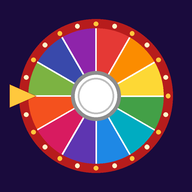
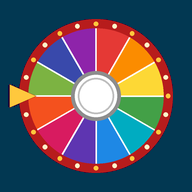
Add files via upload

diff --git a/index.html b/index.html
@@ -5,7 +5,7 @@
 <meta name="viewport" content="width=device-width, initial-scale=1, viewport-fit=cover">
 <title>PrestaYa</title>
 <meta name="description" content="Gira la ruleta y gana boletas extra">
-<meta name="theme-color" content="#7f0d0d">
+<meta name="theme-color" content="#023852">
 <meta name="mobile-web-app-capable" content="yes">
 <meta name="apple-mobile-web-app-capable" content="yes">
 <meta name="apple-mobile-web-app-status-bar-style" content="black-translucent">
@@ -16,7 +16,7 @@
 /* ============================================================
    ICONO SVG + MANIFEST EMBEBIDO (Data URI)
    ============================================================ */
-const APP_VERSION = '1.4';
+const APP_VERSION = '1.5';
 const WHEEL_COLORS = ['#E53935','#FB8C00','#FDD835','#43A047','#00ACC1','#1E88E5','#5E35B1','#D81B60','#F4511E','#7CB342','#3949AB','#8E24AA'];
 
 function makeIconSVG(){
@@ -28,7 +28,7 @@ function makeIconSVG(){
     const x1 = cx + r * Math.cos(a1), y1 = cx + r * Math.sin(a1);
     paths += `<path d="M${cx},${cx} L${x0.toFixed(1)},${y0.toFixed(1)} A${r},${r} 0 0 1 ${x1.toFixed(1)},${y1.toFixed(1)} Z" fill="${WHEEL_COLORS[i]}" stroke="#fff" stroke-width="3"/>`;
   }
-  return `<svg xmlns="http://www.w3.org/2000/svg" viewBox="0 0 512 512"><rect width="512" height="512" rx="96" fill="#1a0b3d"/><circle cx="256" cy="256" r="240" fill="#B71C1C"/>${paths}<circle cx="256" cy="256" r="58" fill="#9e9e9e"/><circle cx="256" cy="256" r="48" fill="#fff"/><circle cx="256" cy="256" r="38" fill="#fff" stroke="#bdbdbd" stroke-width="4"/></svg>`;
+  return `<svg xmlns="http://www.w3.org/2000/svg" viewBox="0 0 512 512"><rect width="512" height="512" rx="96" fill="#023852"/><circle cx="256" cy="256" r="240" fill="#B71C1C"/>${paths}<circle cx="256" cy="256" r="58" fill="#9e9e9e"/><circle cx="256" cy="256" r="48" fill="#fff"/><circle cx="256" cy="256" r="38" fill="#fff" stroke="#bdbdbd" stroke-width="4"/></svg>`;
 }
 
 (function setupManifest(){
@@ -49,8 +49,8 @@ function makeIconSVG(){
     scope: base,
     display: 'standalone',
     orientation: 'portrait',
-    background_color: '#1a0b3d',
-    theme_color: '#7f0d0d',
+    background_color: '#023852',
+    theme_color: '#023852',
     lang: 'es',
     icons: [
       { src: base + 'icon-192.png', sizes: '192x192', type: 'image/png', purpose: 'any maskable' },
@@ -72,16 +72,19 @@ function makeIconSVG(){
 
 <style>
   :root{
-    --crimson:#b71c1c; --crimson-dark:#7f0d0d; --gold:#ffc83d;
-    --bg1:#2a0f5c; --bg2:#12052e;
+    /* Paleta PrestaYa */
+    --navy:#023852; --teal:#079fa0; --mint:#9fd8c5; --yellow:#fac005; --red:#dc2e2f;
+    --crimson:var(--red); --gold:var(--yellow);
+    --bg1:#045278; --bg2:#011f2e;
   }
   *{ -webkit-tap-highlight-color: transparent; }
+  .hidden{ display:none !important; }   /* respaldo si el CDN de Tailwind no carga */
   html,body{ background:var(--bg2); }
   body{
     font-family:'Baloo 2', system-ui, -apple-system, 'Segoe UI', Roboto, sans-serif;
     min-height:100vh; min-height:100dvh;
     background:
-      radial-gradient(ellipse at 50% 35%, rgba(255,200,61,.18), transparent 55%),
+      radial-gradient(ellipse at 50% 35%, rgba(7,159,160,.30), transparent 60%),
       repeating-conic-gradient(from 0deg at 50% 38%, rgba(255,255,255,.035) 0 10deg, transparent 10deg 20deg),
       linear-gradient(180deg, var(--bg1), var(--bg2));
     background-attachment: fixed;
@@ -89,14 +92,14 @@ function makeIconSVG(){
   }
   .title{
     font-weight:800; letter-spacing:.5px; line-height:1;
-    background:linear-gradient(180deg,#fff6c9,#ffc83d 55%,#ff9d00);
+    background:linear-gradient(180deg,#fff2b8,#fac005 60%,#e0a800);
     -webkit-background-clip:text; background-clip:text; color:transparent;
     filter:drop-shadow(0 2px 0 rgba(0,0,0,.35));
   }
-  .chip{ background:rgba(255,255,255,.1); border:1px solid rgba(255,255,255,.18); border-radius:999px; }
+  .chip{ background:rgba(7,159,160,.25); border:1px solid rgba(159,216,197,.55); border-radius:999px; }
   .icon-btn{
     width:42px; height:42px; border-radius:14px; display:grid; place-items:center;
-    background:rgba(255,255,255,.1); border:1px solid rgba(255,255,255,.2);
+    background:rgba(7,159,160,.22); border:1px solid rgba(159,216,197,.45);
   }
   .icon-btn:active{ transform:scale(.94); }
 
@@ -104,7 +107,7 @@ function makeIconSVG(){
   #wheelWrap{ width:min(84vw, 400px); aspect-ratio:1/1; position:relative; }
   #wheelGlow{
     position:absolute; inset:-6%; border-radius:50%;
-    background:radial-gradient(circle, rgba(255,200,61,.35), transparent 65%);
+    background:radial-gradient(circle, rgba(159,216,197,.35), transparent 65%);
     filter:blur(6px); pointer-events:none;
   }
   #wheel{
@@ -127,7 +130,7 @@ function makeIconSVG(){
     background:radial-gradient(circle at 35% 30%, #ffffff, #f1f1f1 60%, #d9d9d9);
     border:2px solid #9e9e9e;
     box-shadow:0 0 0 3px #fff, 0 0 0 6px #8a8a8a, 0 0 0 7px #c7c7c7, 0 5px 12px rgba(0,0,0,.45);
-    color:var(--crimson); font-weight:800; font-size:clamp(10px,2.9vw,14px); letter-spacing:.3px;
+    color:#b71c1c; font-weight:800; font-size:clamp(10px,2.9vw,14px); letter-spacing:.3px;
     transition:transform .15s;
   }
   #hubBtn:not(:disabled):active{ transform:translate(-50%,-50%) scale(.93); }
@@ -136,11 +139,11 @@ function makeIconSVG(){
   .spin-btn{
     font-weight:800; font-size:1.25rem; letter-spacing:.5px; color:#fff;
     padding:.85rem 2.2rem; border-radius:999px;
-    background:linear-gradient(180deg,#ff5252,#c62828 55%,#8e0000);
-    box-shadow:0 6px 0 #5c0000, 0 12px 24px rgba(0,0,0,.45), inset 0 2px 0 rgba(255,255,255,.35);
+    background:linear-gradient(180deg,#ef5354,#dc2e2f 55%,#a81f20);
+    box-shadow:0 6px 0 #6e1314, 0 12px 24px rgba(0,0,0,.45), inset 0 2px 0 rgba(255,255,255,.35);
     transition:transform .1s, box-shadow .1s, filter .2s;
   }
-  .spin-btn:not(:disabled):active{ transform:translateY(5px); box-shadow:0 1px 0 #5c0000, 0 6px 12px rgba(0,0,0,.4); }
+  .spin-btn:not(:disabled):active{ transform:translateY(5px); box-shadow:0 1px 0 #6e1314, 0 6px 12px rgba(0,0,0,.4); }
   .spin-btn:disabled{ filter:grayscale(.85) brightness(.75); }
   .pulse:not(:disabled){ animation:pulse 1.8s ease-in-out infinite; }
   @keyframes pulse{ 0%,100%{ transform:scale(1) } 50%{ transform:scale(1.05) } }
@@ -148,72 +151,72 @@ function makeIconSVG(){
   /* ---------- Modales ---------- */
   .modal{
     position:fixed; inset:0; z-index:50; display:flex; align-items:center; justify-content:center;
-    padding:20px; background:rgba(8,2,22,.72); backdrop-filter:blur(4px);
+    padding:20px; background:rgba(1,31,46,.75); backdrop-filter:blur(4px);
     opacity:0; pointer-events:none; transition:opacity .25s;
   }
   .modal.open{ opacity:1; pointer-events:auto; }
   .modal-card{
     width:100%; max-width:380px; border-radius:26px; padding:26px 22px 20px; text-align:center;
-    background:linear-gradient(180deg,#ffffff,#fff7e6); color:#2b1b4a;
+    background:linear-gradient(180deg,#ffffff,#e8f6f1); color:var(--navy);
     border:4px solid var(--gold);
-    box-shadow:0 0 0 6px var(--crimson), 0 24px 60px rgba(0,0,0,.6);
+    box-shadow:0 0 0 6px var(--teal), 0 24px 60px rgba(0,0,0,.6);
     transform:scale(.85) translateY(20px); transition:transform .35s cubic-bezier(.2,1.4,.4,1);
   }
   .modal.open .modal-card{ transform:scale(1) translateY(0); }
   .prize-box{
     margin:14px 0 8px; padding:14px 12px; border-radius:18px;
-    background:linear-gradient(180deg,#b71c1c,#7f0d0d); color:#fff;
+    background:linear-gradient(180deg,#e5494a,#dc2e2f 50%,#b02223); color:#fff;
     font-weight:800; font-size:1.6rem; line-height:1.1;
-    box-shadow:inset 0 2px 0 rgba(255,255,255,.25), 0 6px 14px rgba(127,13,13,.35);
+    box-shadow:inset 0 2px 0 rgba(255,255,255,.25), 0 6px 14px rgba(220,46,47,.35);
   }
-  .prize-box.soft{ background:linear-gradient(180deg,#5e35b1,#3a1f7a); font-size:1.3rem; }
+  .prize-box.soft{ background:linear-gradient(180deg,#079fa0,#035f70); font-size:1.3rem; }
   .btn{ border-radius:14px; padding:.75rem 1rem; font-weight:700; width:100%; transition:transform .1s; }
   .btn:active{ transform:scale(.97); }
-  .btn-wa{ background:#25D366; color:#fff; }
-  .btn-dark{ background:#2b1b4a; color:#fff; }
-  .btn-ghost{ background:#efe9f8; color:#2b1b4a; }
+  .btn-wa{ background:var(--teal); color:#fff; }
+  .btn-dark{ background:var(--navy); color:#fff; }
+  .btn-ghost{ background:#dff3ec; color:var(--navy); }
   .btn-red{ background:var(--crimson); color:#fff; }
 
   /* ---------- Panel admin ---------- */
   .sheet{
-    position:fixed; inset:0; z-index:45; background:#f6f3fb; color:#22163d;
+    position:fixed; inset:0; z-index:45; background:#eef8f4; color:var(--navy);
     transform:translateY(100%); transition:transform .35s cubic-bezier(.2,.9,.3,1);
     overflow-y:auto; -webkit-overflow-scrolling:touch;
   }
   .sheet.open{ transform:translateY(0); }
-  .card{ background:#fff; border-radius:20px; padding:16px; box-shadow:0 2px 10px rgba(40,20,80,.08); }
-  .field{ width:100%; border:2px solid #e3dcf0; border-radius:12px; padding:.65rem .8rem; font-size:1rem; background:#fff; color:#22163d; }
-  .field:focus{ outline:none; border-color:#7e57c2; }
-  .label{ font-size:.8rem; font-weight:700; color:#6b5b8a; margin-bottom:4px; display:block; }
+  .card{ background:#fff; border-radius:20px; padding:16px; box-shadow:0 2px 10px rgba(2,56,82,.08); }
+  .field{ width:100%; border:2px solid #bfe5d8; border-radius:12px; padding:.65rem .8rem; font-size:1rem; background:#fff; color:var(--navy); }
+  .field:focus{ outline:none; border-color:var(--teal); }
+  .label{ font-size:.8rem; font-weight:700; color:#3e6f82; margin-bottom:4px; display:block; }
 
   .notice{
     border-radius:20px; padding:16px; text-align:center;
-    background:rgba(255,255,255,.1); border:1px solid rgba(255,255,255,.25);
+    background:rgba(2,56,82,.55); border:1px solid rgba(159,216,197,.5);
   }
   #toast{
     position:fixed; left:50%; bottom:calc(24px + env(safe-area-inset-bottom)); transform:translateX(-50%) translateY(20px);
-    background:#22163d; color:#fff; padding:.6rem 1rem; border-radius:12px; font-weight:600;
+    background:var(--navy); color:#fff; padding:.6rem 1rem; border-radius:12px; font-weight:600;
     opacity:0; transition:all .25s; z-index:70; pointer-events:none; max-width:90vw; text-align:center;
   }
   #toast.show{ opacity:1; transform:translateX(-50%) translateY(0); }
   .acc{
-    border-radius:22px; padding:16px; background:linear-gradient(180deg,rgba(127,13,13,.55),rgba(42,15,92,.6));
+    border-radius:22px; padding:16px; background:linear-gradient(180deg,rgba(7,159,160,.35),rgba(2,56,82,.85));
     border:2px solid var(--gold); box-shadow:0 10px 26px rgba(0,0,0,.35), inset 0 1px 0 rgba(255,255,255,.15);
   }
-  .acc-total{ background:var(--gold); color:#5c0000; font-weight:800; border-radius:999px; padding:.15rem .8rem; font-size:1rem; white-space:nowrap; }
+  .acc-total{ background:var(--gold); color:var(--navy); font-weight:800; border-radius:999px; padding:.15rem .8rem; font-size:1rem; white-space:nowrap; }
   .acc-row{ display:flex; justify-content:space-between; align-items:center; gap:10px; padding:.55rem .8rem; border-radius:14px; background:rgba(255,255,255,.08); font-weight:700; }
-  .acc-row.win{ background:rgba(255,200,61,.18); border:1px solid rgba(255,200,61,.6); color:#fff3b0; }
+  .acc-row.win{ background:rgba(250,192,5,.18); border:1px solid rgba(250,192,5,.7); color:#ffe58a; }
   .acc-row.pending{ opacity:.55; font-weight:600; }
   .send-box{
     border-radius:22px; padding:18px 16px; text-align:center;
-    background:linear-gradient(180deg,rgba(37,211,102,.25),rgba(18,5,46,.6));
-    border:2px solid #25D366; box-shadow:0 10px 26px rgba(0,0,0,.35);
+    background:linear-gradient(180deg,rgba(159,216,197,.35),rgba(2,56,82,.85));
+    border:2px solid var(--mint); box-shadow:0 10px 26px rgba(0,0,0,.35);
     animation:popIn .45s cubic-bezier(.2,1.4,.4,1);
   }
   @keyframes popIn{ from{ transform:scale(.85); opacity:0 } to{ transform:scale(1); opacity:1 } }
-  .switch{ position:relative; width:52px; height:30px; flex:none; border-radius:999px; background:#cfc6e0; transition:background .2s; }
+  .switch{ position:relative; width:52px; height:30px; flex:none; border-radius:999px; background:#bcd9cf; transition:background .2s; }
   .switch::after{ content:''; position:absolute; top:3px; left:3px; width:24px; height:24px; border-radius:50%; background:#fff; box-shadow:0 2px 4px rgba(0,0,0,.25); transition:transform .2s; }
-  #infToggle:checked + .switch{ background:#25D366; }
+  #infToggle:checked + .switch{ background:var(--teal); }
   #infToggle:checked + .switch::after{ transform:translateX(22px); }
   #confetti{ position:fixed; inset:0; width:100%; height:100%; pointer-events:none; z-index:60; }
 </style>
@@ -295,12 +298,12 @@ function makeIconSVG(){
 <div id="resultModal" class="modal" role="dialog" aria-modal="true">
   <div class="modal-card">
     <div id="resIcon" class="text-6xl leading-none">🎉</div>
-    <h2 id="resTitle" class="text-3xl font-extrabold mt-2" style="color:#b71c1c"></h2>
-    <p id="resSub" class="text-base text-[#5a4a78] mt-1"></p>
+    <h2 id="resTitle" class="text-3xl font-extrabold mt-2" style="color:#dc2e2f"></h2>
+    <p id="resSub" class="text-base text-[#2c5d73] mt-1"></p>
     <div id="resPrize" class="prize-box"></div>
-    <p id="resMeta" class="text-xs text-[#7a6b96]"></p>
-    <p id="resCode" class="text-xs text-[#7a6b96] mt-1"></p>
-    <p id="resLeft" class="text-base font-bold mt-3" style="color:#5e35b1"></p>
+    <p id="resMeta" class="text-xs text-[#4b7a8c]"></p>
+    <p id="resCode" class="text-xs text-[#4b7a8c] mt-1"></p>
+    <p id="resLeft" class="text-base font-bold mt-3" style="color:#079fa0"></p>
     <div class="mt-4 flex flex-col gap-2">
       <button id="resClaim" class="btn btn-wa hidden">Enviar resultados por WhatsApp</button>
       <button id="resClose" class="btn btn-dark">Cerrar</button>
@@ -319,7 +322,7 @@ function makeIconSVG(){
     <!-- PIN -->
     <div id="pinView" class="card text-center">
       <p class="font-bold text-lg">Ingresa tu PIN</p>
-      <p class="text-sm text-[#6b5b8a] mb-3">PIN inicial: 1234 (cámbialo en Ajustes)</p>
+      <p class="text-sm text-[#3e6f82] mb-3">PIN inicial: 1234 (cámbialo en Ajustes)</p>
       <input id="pinInput" type="password" inputmode="numeric" maxlength="8" class="field text-center text-2xl tracking-[.4em]" placeholder="••••">
       <button id="pinOk" class="btn btn-red mt-3">Entrar</button>
     </div>
@@ -355,7 +358,7 @@ function makeIconSVG(){
       <div class="card">
         <div class="flex items-center justify-between mb-2">
           <h3 class="font-extrabold text-lg">Enlaces generados</h3>
-          <span id="histCount" class="text-sm text-[#6b5b8a]"></span>
+          <span id="histCount" class="text-sm text-[#3e6f82]"></span>
         </div>
         <input id="histSearch" class="field mb-3" placeholder="Buscar por nombre o ID">
         <div id="histList" class="flex flex-col gap-2"></div>
@@ -363,7 +366,7 @@ function makeIconSVG(){
 
       <div class="card">
         <h3 class="font-extrabold text-lg mb-1">Verificar premio</h3>
-        <p class="text-sm text-[#6b5b8a] mb-3">Cuando un cliente reclame, pide su ID y el código de verificación que le mostró su cajón de premios.</p>
+        <p class="text-sm text-[#3e6f82] mb-3">Cuando un cliente reclame, pide su ID y el código de verificación que le mostró su cajón de premios.</p>
         <div class="grid grid-cols-2 gap-2">
           <input id="vId" class="field" placeholder="ID">
           <input id="vCode" class="field uppercase" placeholder="Código">
@@ -379,16 +382,16 @@ function makeIconSVG(){
           <input id="newPin" type="password" inputmode="numeric" maxlength="8" class="field" placeholder="4 a 8 dígitos">
           <button id="savePin" class="btn btn-dark !w-auto px-4">Guardar</button>
         </div>
-        <label class="flex items-center justify-between gap-3 mt-4 p-3 rounded-xl bg-[#f3eefb] cursor-pointer">
+        <label class="flex items-center justify-between gap-3 mt-4 p-3 rounded-xl bg-[#dff3ec] cursor-pointer">
           <span>
             <span class="block font-bold">♾ Giros de prueba infinitos</span>
-            <span class="block text-xs text-[#6b5b8a]">Solo en la vista sin enlace de este dispositivo. Los enlaces de clientes siguen con 2 giros.</span>
+            <span class="block text-xs text-[#3e6f82]">Solo en la vista sin enlace de este dispositivo. Los enlaces de clientes siguen con 2 giros.</span>
           </span>
           <input id="infToggle" type="checkbox" class="sr-only">
           <span class="switch" aria-hidden="true"></span>
         </label>
         <button id="resetDevice" class="btn btn-ghost mt-3">Borrar giros registrados en este dispositivo</button>
-        <p class="text-xs text-[#6b5b8a] mt-3">Versión <span class="appVersion"></span></p>
+        <p class="text-xs text-[#3e6f82] mt-3">Versión <span class="appVersion"></span></p>
       </div>
     </div>
   </div>
@@ -813,7 +816,7 @@ let parts = [], confRAF = null;
 function sizeConfetti(){ const d = Math.min(devicePixelRatio || 1, 2); cv.width = innerWidth * d; cv.height = innerHeight * d; cc.setTransform(d, 0, 0, d, 0, 0); }
 function launchConfetti(){
   sizeConfetti();
-  const cols = ['#ff1744','#ffc400','#00e676','#2979ff','#d500f9','#ff9100','#ffffff','#18ffff'];
+  const cols = ['#023852','#079fa0','#9fd8c5','#fac005','#dc2e2f','#ffffff'];
   const W = innerWidth, H = innerHeight;
   const burst = (x, y, n, angle, spread, speed) => {
     for (let i = 0; i < n; i++) {
@@ -910,19 +913,19 @@ function renderHistory(){
   const list = all.filter(h => !q || h.cliente.toLowerCase().includes(q) || h.id.toLowerCase().includes(q));
   $('histCount').textContent = `${all.length} en total`;
   const box = $('histList'); box.innerHTML = '';
-  if (!list.length) { box.innerHTML = '<p class="text-sm text-center text-[#8a7aa8] py-3">Aún no hay enlaces</p>'; return; }
+  if (!list.length) { box.innerHTML = '<p class="text-sm text-center text-[#5f8f9f] py-3">Aún no hay enlaces</p>'; return; }
   list.slice(0, 60).forEach(h => {
     const row = document.createElement('div');
-    row.className = 'flex items-center gap-2 border border-[#ece6f6] rounded-xl p-2';
+    row.className = 'flex items-center gap-2 border border-[#cfe9e0] rounded-xl p-2';
     const info = document.createElement('div'); info.className = 'flex-1 min-w-0';
     const n = document.createElement('p'); n.className = 'font-bold truncate'; n.textContent = h.cliente;
-    const d = document.createElement('p'); d.className = 'text-xs text-[#7a6b96]'; d.textContent = `ID ${h.id} · ${fmtDate(h.fecha)}`;
+    const d = document.createElement('p'); d.className = 'text-xs text-[#4b7a8c]'; d.textContent = `ID ${h.id} · ${fmtDate(h.fecha)}`;
     info.append(n, d);
     const mk = (label, cls, fn) => { const b = document.createElement('button'); b.className = `text-xs font-bold px-2.5 py-2 rounded-lg ${cls}`; b.textContent = label; b.onclick = fn; return b; };
     row.append(info,
-      mk('Copiar', 'bg-[#2b1b4a] text-white', () => copyText(h.link)),
-      mk('WA', 'bg-[#25D366] text-white', () => openWA(h.phone, inviteText(h.cliente, h.link))),
-      mk('✕', 'bg-[#f3eefb] text-[#b71c1c]', () => {
+      mk('Copiar', 'bg-[#023852] text-white', () => copyText(h.link)),
+      mk('WA', 'bg-[#079fa0] text-white', () => openWA(h.phone, inviteText(h.cliente, h.link))),
+      mk('✕', 'bg-[#dff3ec] text-[#dc2e2f]', () => {
         if (!confirm(`¿Eliminar el enlace de ${h.cliente} del historial?`)) return;
         store.set('rp_links', store.get('rp_links', []).filter(x => x.id !== h.id)); renderHistory();
       }));
@@ -934,11 +937,11 @@ $('histSearch').addEventListener('input', renderHistory);
 $('vCheck').onclick = () => {
   const id = $('vId').value.trim(), code = $('vCode').value.trim().toUpperCase();
   const out = $('vResult');
-  if (!id || !code) { out.textContent = 'Completa ID y código'; out.style.color = '#b71c1c'; return; }
+  if (!id || !code) { out.textContent = 'Completa ID y código'; out.style.color = '#dc2e2f'; return; }
   let hit = 0;
   for (let n = 1; n <= CONFIG.MAX_SPINS * 2; n++) if (prizeCode(id, 'TOTAL' + n) === code) hit = n;
-  if (hit) { out.textContent = `✅ Código válido: ${boletasTxt(hit)} acumuladas`; out.style.color = '#2e7d32'; }
-  else { out.textContent = '❌ El código no corresponde a ningún premio de ese ID'; out.style.color = '#b71c1c'; }
+  if (hit) { out.textContent = `✅ Código válido: ${boletasTxt(hit)} acumuladas`; out.style.color = '#079fa0'; }
+  else { out.textContent = '❌ El código no corresponde a ningún premio de ese ID'; out.style.color = '#dc2e2f'; }
 };
 
 $('savePin').onclick = () => {

diff --git a/sw.js b/sw.js
@@ -1,5 +1,5 @@
-/* Service Worker — PrestaYa Ruleta v1.4 */
-const CACHE = 'prestaya-ruleta-v1.4';
+/* Service Worker — PrestaYa Ruleta v1.5 */
+const CACHE = 'prestaya-ruleta-v1.5';
 const SHELL = ['./', './index.html', './icon-192.png', './icon-512.png'];
 
 self.addEventListener('install', event => {
